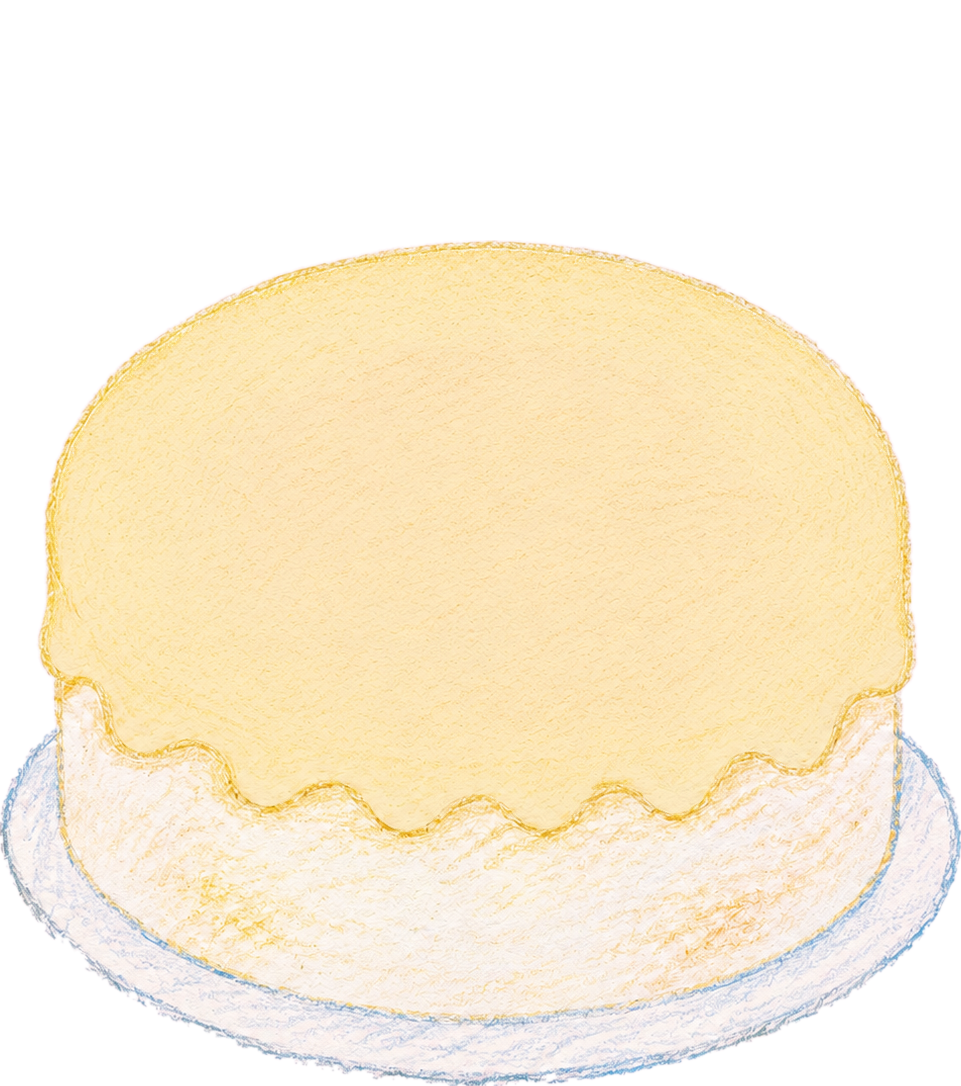
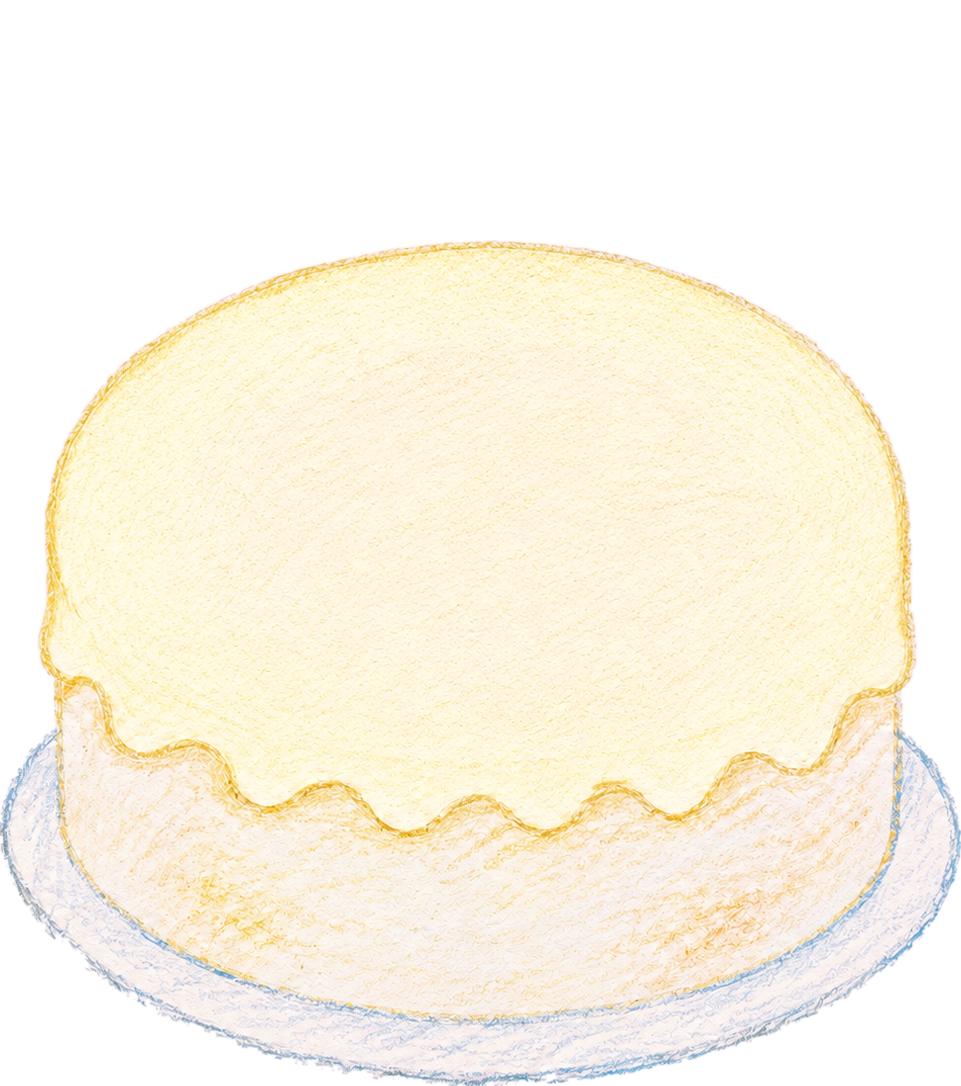
S7: 맛/색 vibrant 확정 + 초 정리 · 반죽 컷 교체
맛/색
- 케이크·생크림 모두 pure light=0.58 sat=1.7 (아주 연하게 vibrant).
  흰색과 섞으면 밝아지는 대신 채도가 같이 죽는다 → 밝기는 두고 채도만 되살림
- 생크림은 면과 윤곽선을 따로 틴트. 통째로 곱하면 금색 선이 섞여 탁해진다
  (금색 × 파랑 = 올리브) → 면은 맛 색, 선은 그 색의 어두운 버전(×0.62)

초
- 하트초 빨강·핑크·파랑 3색을 유저가 고르게 (DECO 를 3항목으로 분리).
  곱하기로는 색이 안 바뀐다(빨강 × 파랑 = 어두운 회색) → 색상만 갈고 명도는 보존
- 생일초는 진한 hue. 단 불꽃(hue 28~62)은 어둡게 하지 않고 밝게 올린다 —
  통째로 적용하면 노란 불꽃까지 칙칙해진다
- 길이: 생일초 몸통·하트초 대를 늘리고, 폭탄초엔 대가 없어 하트초 대를 떼어 붙였다.
  통째로 키우면 불꽃·폭탄까지 커지므로 늘어날 부분만 늘린다.
  생일초 화면 길이는 하트초에 맞춰 역산 (0.2175 vs 0.2174)
- CANDLE_TYPES 를 layout.candle.size 에서 파생 — 종류가 늘어도 코드 불변

반죽
- dough_knead 를 v2 그림으로 교체. 흰 배경(S=0)과 발(S≈0.14)이 채도로 갈려
  v1 의 영역 분할·발 지정이 필요 없어졌다

채점 미변경 — orders.js 의 정답이 전부 deco: [] 라 하트초를 3종으로 나눠도 안 깨진다.

diff --git a/src/data/ingredients.js b/src/data/ingredients.js
@@ -69,7 +69,9 @@ export const TOPPINGS = [
 // ④ 데코 (개수 있음 — 배치한 수가 곧 개수)
 export const DECO = [
   { id: "birthday_candle", label: "생일초", emoji: "🕯" },
-  { id: "heart_candle", label: "하트초", emoji: "💗" },
+  { id: "heart_candle_red", label: "빨간 하트초", emoji: "❤" },
+  { id: "heart_candle_pink", label: "핑크 하트초", emoji: "💗" },
+  { id: "heart_candle_blue", label: "파란 하트초", emoji: "💙" },
   { id: "bomb_candle", label: "폭탄초", emoji: "🧨" },
   { id: "sprinkle", label: "레인보우스프링클", emoji: "🌈" },
 ];

diff --git a/src/components/CakeView.jsx b/src/components/CakeView.jsx
@@ -3,7 +3,7 @@ import layout from "../data/cakeLayout.json";
 
 // 배치는 전부 cakeLayout.json 에 미리 계산돼 있다(손그림에서 실측한 윗면 타원 기준).
 // 여기서는 계산하지 않고 자리만 찾아 그린다 — 개수가 늘어도 이미 올린 것이 움직이지 않는다.
-const CANDLE_TYPES = ["birthday_candle", "heart_candle", "bomb_candle"];
+const CANDLE_TYPES = Object.keys(layout.candle.size);
 export const MAX_CANDLES = Object.keys(layout.candle.arrangements).length;
 export const TOPPING_SLOTS = layout.topping.slots.length;
 

diff --git a/src/components/IngredientPalette.jsx b/src/components/IngredientPalette.jsx
@@ -2,7 +2,7 @@ import { SHEET_BASE, BASIC_BASE, COLORS, TOPPINGS, DECO } from "../data/ingredie
 import { pickToppingSlot, TOPPING_SLOTS, MAX_CANDLES } from "./CakeView.jsx";
 import layout from "../data/cakeLayout.json";
 
-const CANDLE_TYPES = ["birthday_candle", "heart_candle", "bomb_candle"];
+const CANDLE_TYPES = Object.keys(layout.candle.size);
 const CREAM_SLOTS = layout.cream.slots.length;
 const SPRINKLE_MAX_CLICKS = layout.sprinkle.max_clicks;
 
